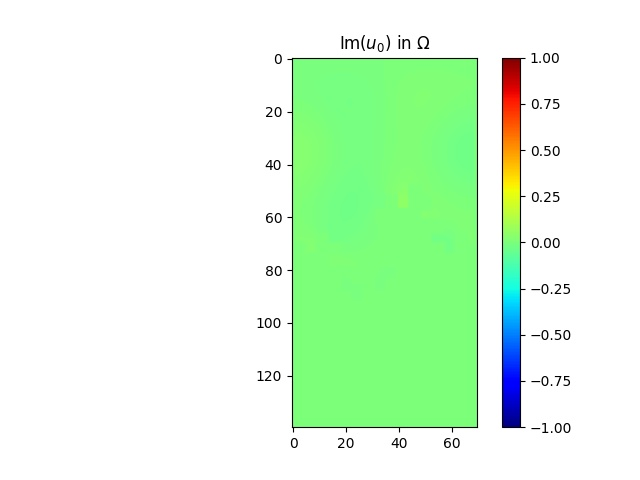
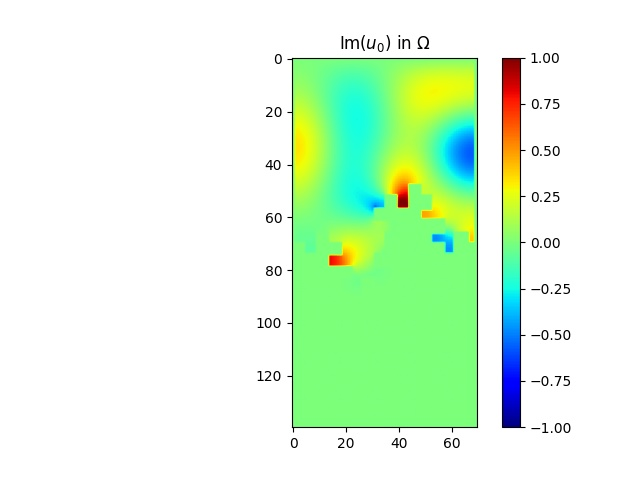
correct bugs

Changed region(s): [[0.4375, 0.125, 0.75, 0.5625]]

diff --git a/demo_control_polycopie.py b/demo_control_polycopie.py
@@ -1,5 +1,12 @@
 # -*- coding: utf-8 -*-
 
+'''
+1. Améliorer optimisation eps2, l
+2. Changer distrib initiale
+3. Changer le vecteur d'onde
+4. Différents Omega
+'''
+
 
 # Python packages
 import matplotlib.pyplot
@@ -18,6 +25,10 @@ import alpha_compute
 def your_optimization_procedure(domain_omega, spacestep, omega, f, f_dir, f_neu, f_rob,
                                 beta_pde, alpha_pde, alpha_dir, beta_neu, beta_rob, alpha_rob,
                                 Alpha, mu, chi, V_obj, mu1, V_0):
+
+    eps1 = 0.01
+    eps2 = 0.01
+    eps0 = 0.01
     """This function return the optimized density.
 
     Parameter:
@@ -34,7 +45,7 @@ def your_optimization_procedure(domain_omega, spacestep, omega, f, f_dir, f_neu,
     (M, N) = numpy.shape(domain_omega)
     numb_iter = 100
     energy = numpy.zeros((numb_iter+1, 1), dtype=numpy.float64)
-    while k < numb_iter and mu > 10**(-5):
+    while k < numb_iter and mu > eps0:
         print('---- iteration number = ', k)
         print('1. computing solution of Helmholtz problem, i.e., u')
         u = processing.solve_helmholtz(domain_omega, spacestep, omega, f, f_dir, f_neu,
@@ -52,11 +63,11 @@ def your_optimization_procedure(domain_omega, spacestep, omega, f, f_dir, f_neu,
 
         print('4. computing parametric gradient')
 
-        a = alpha_compute.compute(omega)
+        a = alpha_compute.compute(omega*340)
         alpha = a[0] + 1.0j*a[1]
         Jp = -numpy.real(alpha*u*p)
 
-        while ene >= energy[k] and mu > 10 ** -5:
+        while ene >= energy[k] and mu > eps0:
             l = 0
 
             print('    a. computing gradient descent')
@@ -86,8 +97,10 @@ def your_optimization_procedure(domain_omega, spacestep, omega, f, f_dir, f_neu,
             else:
                 # The step is decreased is the energy increased
                 mu = mu / 2
+        chi = chi_next
         k += 1
 
+    grad = 0
     print('end. computing solution of Helmholtz problem, i.e., u')
 
     return chi, energy, u, grad
@@ -135,7 +148,7 @@ def integral(chi):
     n, m = numpy.shape(chi)
     for j in range(m-1):
         for i in range(n-1):
-            res += chi[i][j]*spacestep**2
+            res += chi[i][j]**2*spacestep**2
     return res
 
 
@@ -233,9 +246,7 @@ if __name__ == '__main__':
     # ----------------------------------------------------------------------
     # -- compute optimization
     energy = numpy.zeros((100+1, 1), dtype=numpy.float64)
-    chi, energy, u, grad = your_optimization_procedure(domain_omega, spacestep, omega, f, f_dir, f_neu, f_rob,
-                                                       beta_pde, alpha_pde, alpha_dir, beta_neu, beta_rob, alpha_rob,
-                                                       Alpha, mu, chi, V_obj, mu1, V_0)
+    chi, energy, u, grad = your_optimization_procedure(domain_omega, spacestep, omega, f, f_dir, f_neu, f_rob, beta_pde, alpha_pde, alpha_dir, beta_neu, beta_rob, alpha_rob, Alpha, mu, chi, V_obj, mu1, V_0)
     # chi, energy, u, grad = solutions.optimization_procedure(domain_omega, spacestep, wavenumber, f, f_dir, f_neu, f_rob,
     #                    beta_pde, alpha_pde, alpha_dir, beta_neu, beta_rob, alpha_rob,
     #                    Alpha, mu, chi, V_obj, mu1, V_0)
